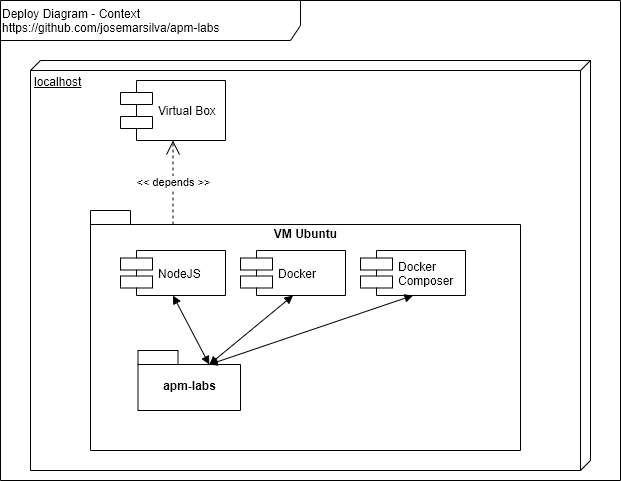
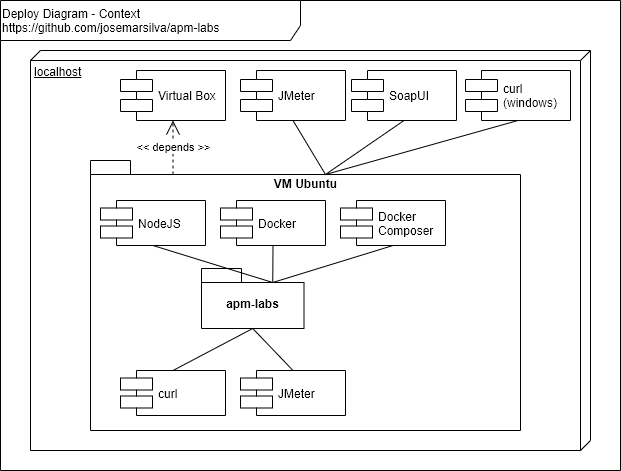
doc/

diff --git a/README.md b/README.md
@@ -2,7 +2,7 @@
 
 ## 1. Introdução
 
-O projeto **apm-labs** consiste em explorar cenários de _performance_, _stress test_ e _tuning_ de aplicações.
+O projeto **apm-labs** consiste em explorar cenários de _performance test_, _stress test_, _load test_ e _tuning_ de aplicações.
 
 
 ## 2. Documentação
@@ -27,12 +27,7 @@ O projeto **apm-labs** consiste em explorar cenários de _performance_, _stress 
 ![MindMapDiagram-Context.png](./doc/MindMapDiagram-Context.png) 
 
 
-### 2.6. Diagrama de Sequencia (Sequence Diagram)
-
-![SequenceDiagram-Context.png](./doc/SequenceDiagram.png) 
-
-
-### 2.7. Estratégia de Branches (Branch Strategy Workflow)
+### 2.6. Estratégia de Branches (Branch Strategy Workflow)
 
 Sugestão de [estratégia de branches e workflow](https://github.com/josemarsilva/eval-git#38-estrat%C3%A9gia-de-gerenciamento-de-branches) :
 * `master`: pronto para produção
@@ -102,7 +97,12 @@ $ rm apache-jmeter-5.3.tgz
 
 ### 3.4. Guia de Execução, Demonstração e Cenários de Teste
 
-#### a. Cenário no. 01: HTTP Server - Hello World
+#### a. Cenário 01: HTTP Web Server
+
+* n/a
+
+
+#### b. Cenário 02: HTTP JSON Server
 
 * n/a
 
@@ -128,5 +128,11 @@ $ rm apache-jmeter-5.3.tgz
   * [Synchronous vs Asynchronous Services - Request/Acknowledge/Poll, Request/Acknowledge/Callback e Request/Acknowledge/Relay](http://nelsonbassetto.com/blog/2012/10/synchronous-x-asynchronous-services-parte-1/)
   * [Service Design Patterns (.pdf)](http://emadilms.ir/emadi/wp-content/uploads/2015/02/Robert-Daigneau-Service-Design-Patterns_-Fundamental-Design-Solutions-for-SOAP-WSDL-and-RESTful-Web-Services-Addison-Wesley-Professional-2011.pdf)
 * NodeJS
+  * [How to Install NodeJS](https://blog.teamtreehouse.com/install-node-js-npm-windows)
+  * [Download NodeJS Installer](https://nodejs.org/en/download/)
   * [Construindo um Servidor Web com NodeJS](https://www.devmedia.com.br/construindo-um-servidor-web-com-node-js/32023)
+  * [Construindo um Servidor Json com NodeJS](https://egghead.io/lessons/javascript-creating-demo-apis-with-json-server)
   * [Overview of Blocking vs Non-Blocking](https://nodejs.org/en/docs/guides/blocking-vs-non-blocking/)
+* JMeter
+  * [JMeter - Testes de Carga](http://shipit.resultadosdigitais.com.br/blog/testes-de-carga-com-jmeter/)
+  * [JMeter - Teste de Performance](https://www.devmedia.com.br/teste-de-performance-com-jmeter/34621)
